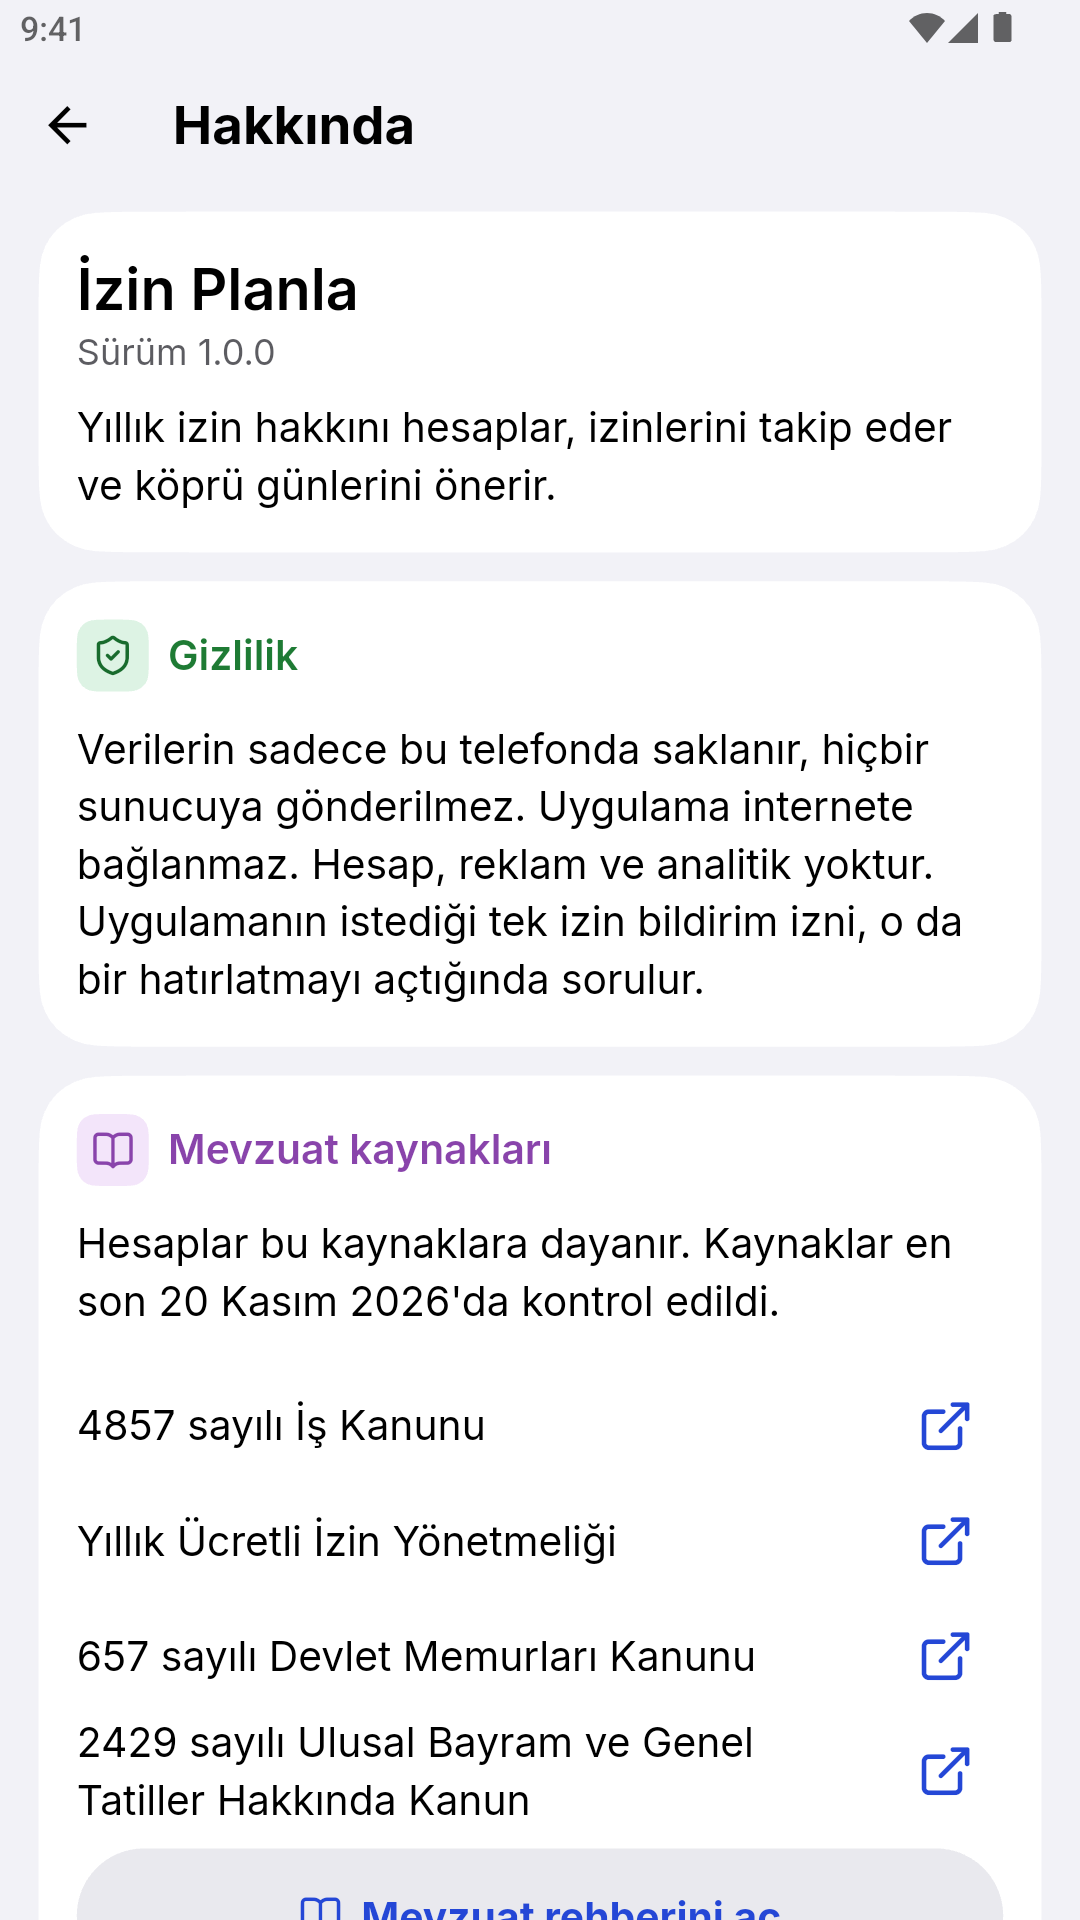
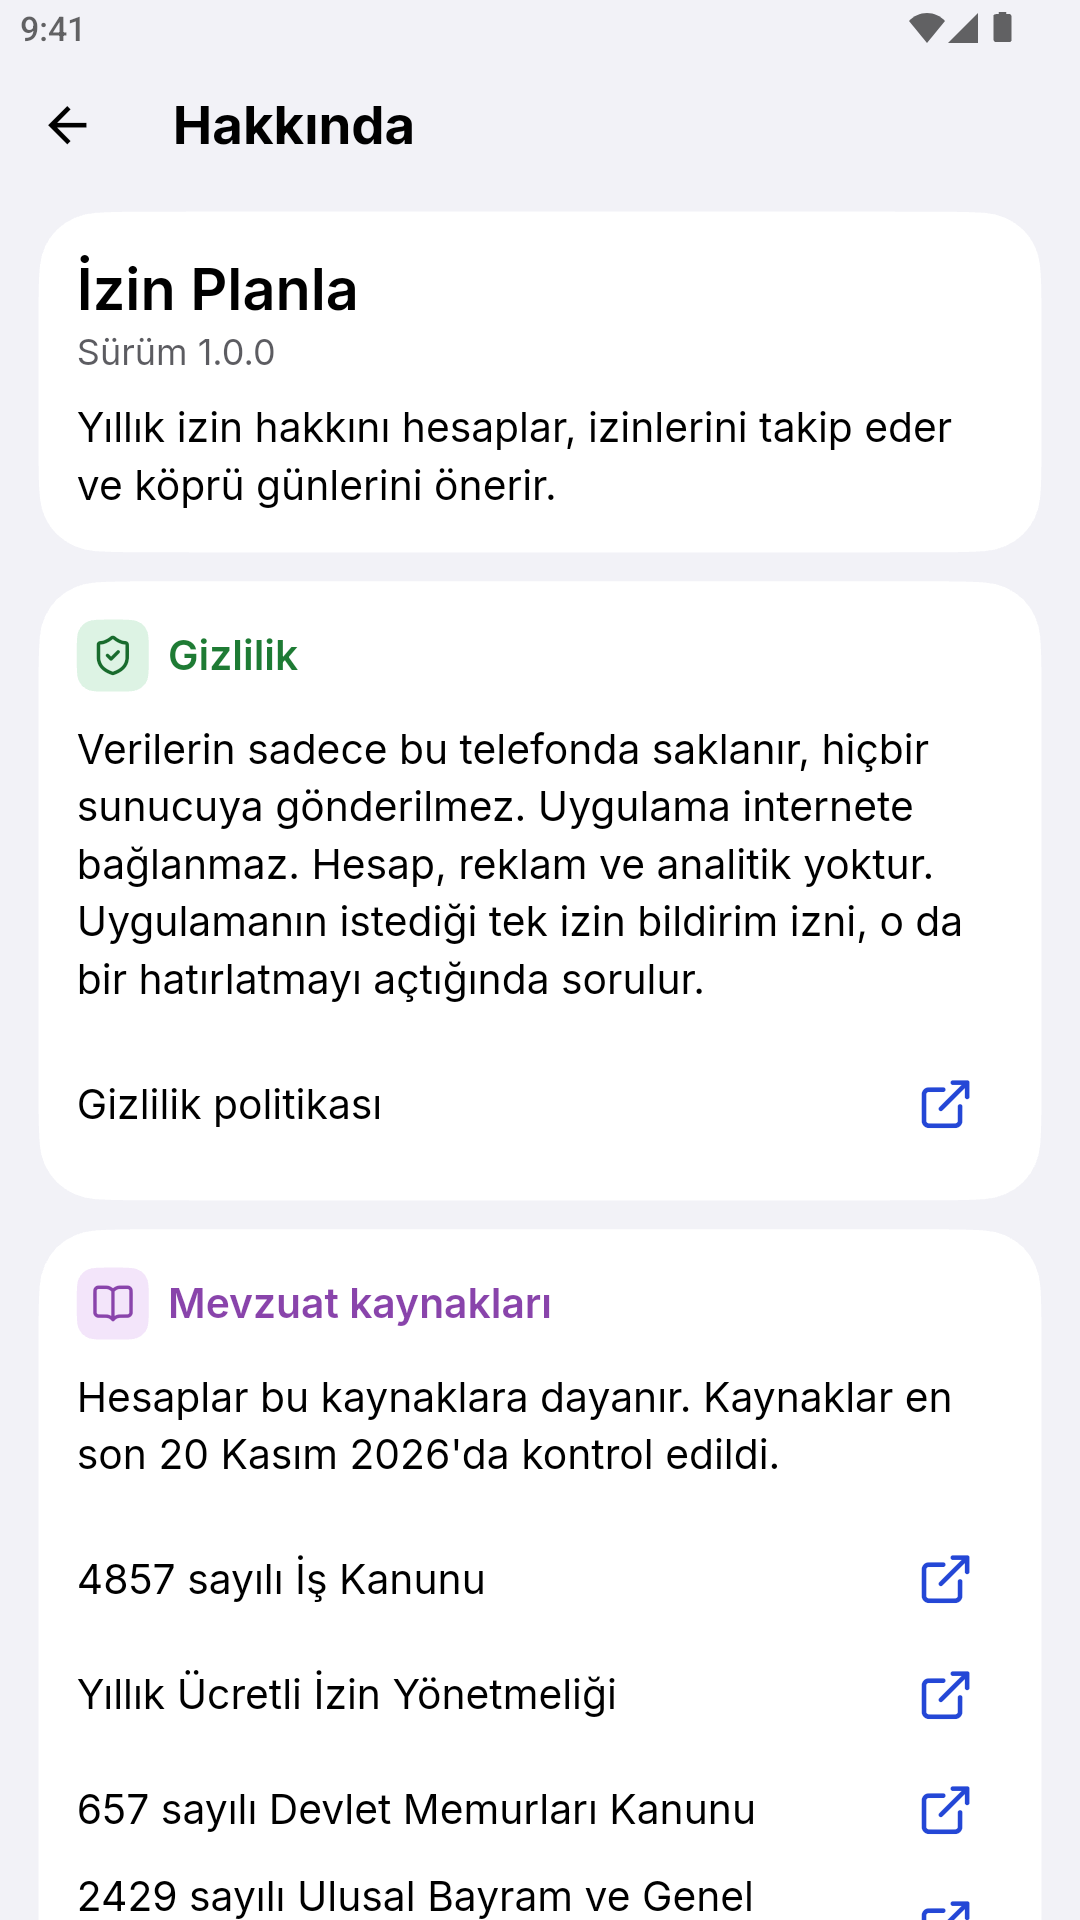
docs: close tasks 13 and 15 and refresh the about screenshot

Changed region(s): [[0.0611, 0.5625, 0.9167, 1.0], [0.8556, 0.7812, 0.9167, 1.0], [0.8556, 0.5625, 0.9167, 0.5938]]

diff --git a/docs/tasks/18-play-yukleme.md b/docs/tasks/18-play-yukleme.md
@@ -2,7 +2,7 @@
 
 Bağımlılık: 17.
 
-Durum: kapalı test incelemede. Dahili testte 1.0.0 (versionCode 2) yayında, kapalı test 1.0.0 (versionCode 3) 22 Kasım 2026'da incelemeye gönderildi. Test kullanıcıları `testers-community@googlegroups.com` ve TheClosedTest uygulamasının `developers-community-official@googlegroups.com` Google gruplarından gelir. İkinci grup Play Console'da kaydedildi, mevcut inceleme bitince versionCode 4 sürümüyle birlikte incelemeye gönderilecek. Mağaza girişi, uygulama içeriği beyanları ve GitHub Pages'taki gizlilik politikası tamam. Üretim başvurusu 12 test kullanıcısı ve 14 gün sonra yapılır.
+Durum: kapalı test incelemede. Dahili testte 1.0.0 (versionCode 2) yayında, kapalı test 1.0.0 (versionCode 3) 22 Kasım 2026'da incelemeye gönderildi. Test kullanıcıları `testers-community@googlegroups.com` ve TheClosedTest uygulamasının `developers-community-official@googlegroups.com` Google gruplarından gelir. İkinci grup Play Console'da kaydedildi, mevcut inceleme bitince versionCode 4 sürümü ve yenilenen `08-hakkinda.png` ekran görüntüsüyle birlikte incelemeye gönderilecek. Mağaza girişi, uygulama içeriği beyanları ve GitHub Pages'taki gizlilik politikası tamam. Üretim başvurusu 12 test kullanıcısı ve 14 gün sonra yapılır.
 
 ## Yapılacaklar
 

diff --git a/tools/README.md b/tools/README.md
@@ -27,6 +27,7 @@ Git Bash'te `source tools/mumu.sh` ile yüklenir. Fonksiyonlar: `mumu_start`, `u
 - adb, MuMu'ya emülatörün Wi-Fi'si üzerinden bağlanır. Wi-Fi ve uçak modu adb ile kapatılmaz, çünkü adb kopar ve sonraki komut çalışmaz. Bu komutlar `MuMuManager.exe sh -v 1 -c "<komut>"` ile verilir.
 - Bilgisayar ağ değiştirince MuMu eski DNS sunucusunda kalır ve sayfalar boş açılır. Wi-Fi `MuMuManager.exe sh` ile kapatılıp açılır, sonra adb yeniden bağlanır.
 - Bilgisayar uykudan çıkınca MuMu'nun saati geride kalabilir ve Play "Authentication is required" der. `adb shell cmd network_time_update_service force_refresh` saati düzeltir.
+- MuMu ara sıra kendi grafik modülünde (`libRenderer.dll`) çöküp kapanır, Windows olay günlüğüne `MuMuNxDevice.exe` hatası düşer. `MuMuManager.exe control -v 1 launch` ile tekrar açılır, uygulama verisi durur.
 - Windows Defender'ın denetimli klasör erişimi açıkken MuMu, `Documents\MuMuSharedFolder` altına bağlı klasörlere (Download, Pictures) yazamaz. Dosya kaydetme testinde dosya seçicide cihaz hafızası ve Documents klasörü seçilir.
 
 ### Rakip uygulamalarla çalışırken

diff --git a/docs/tasks/15-gorseller-ve-store-metni.md b/docs/tasks/15-gorseller-ve-store-metni.md
@@ -2,7 +2,7 @@
 
 Bağımlılık: 02, 06 (renk paleti). Paralel çalışır. Yazma alanı: `assets/branding/`, `store/`, `android/app/src/main/res/mipmap-*`, `flutter_native_splash`'in ürettiği açılış ekranı dosyaları.
 
-Durum: tamamlandı, cihaz kontrolü bekliyor. İkon, themed ikon, açılış ekranı ve feature graphic `assets/branding/tool/build_android.sh` ile üretiliyor, metinler `store/` altında ve `store/tool/check_store.dart` kontrolünden geçiyor. README'deki store adı 32 karakter olduğu için 30 karakterlik ad önerildi, ekran görüntüleri koordinatöre bırakıldı.
+Durum: tamamlandı. İkon, tema ikonu, açılış ekranı ve feature graphic `assets/branding/tool/build_android.sh` ile üretiliyor, metinler `store/` altında ve `store/tool/check_store.dart` kontrolünden geçiyor. Açılış ekranı açık ve koyu modda MuMu'da doğru görünüyor. Tema ikonu APK'da doğru katmanda, MuMu'nun başlatıcısı tema ikonunu desteklemediği için cihazda gösterilemedi. Ekran görüntüleri `store/ekran-goruntuleri/` altında.
 
 ## Yapılacaklar
 

diff --git a/docs/tasks/13-disa-aktarma-yedek.md b/docs/tasks/13-disa-aktarma-yedek.md
@@ -2,7 +2,7 @@
 
 Bağımlılık: 05. Paralel çalışır. Yazma alanı: `lib/data/services/export/`, `lib/l10n/parts/export.arb`, `test/data/services/export/`.
 
-Durum: kod ve testler tamamlandı. CSV, PDF, Excel ve sürümlü yedek `lib/data/services/export/` içinde, analyze temiz, 90 test geçiyor, Excel dosyası Excel'de açıldı. MuMu'da paylaşma, kaydetme ve geri yükleme denemesi koordinatöre bırakıldı.
+Durum: tamamlandı. CSV, PDF, Excel ve sürümlü yedek `lib/data/services/export/` içinde. Paylaşma, cihaza kaydetme ve geri yükleme task 17'de MuMu'da denendi, sonuçlar `docs/test-raporu.md` içinde.
 
 ## Yapılacaklar
 
